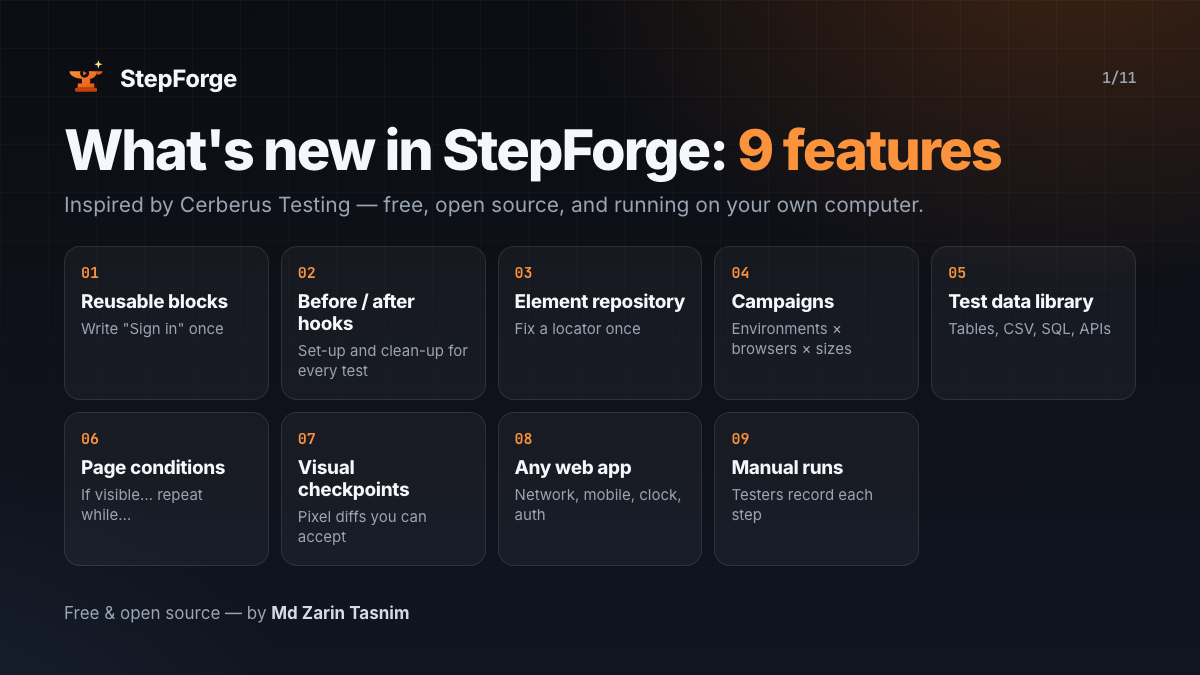
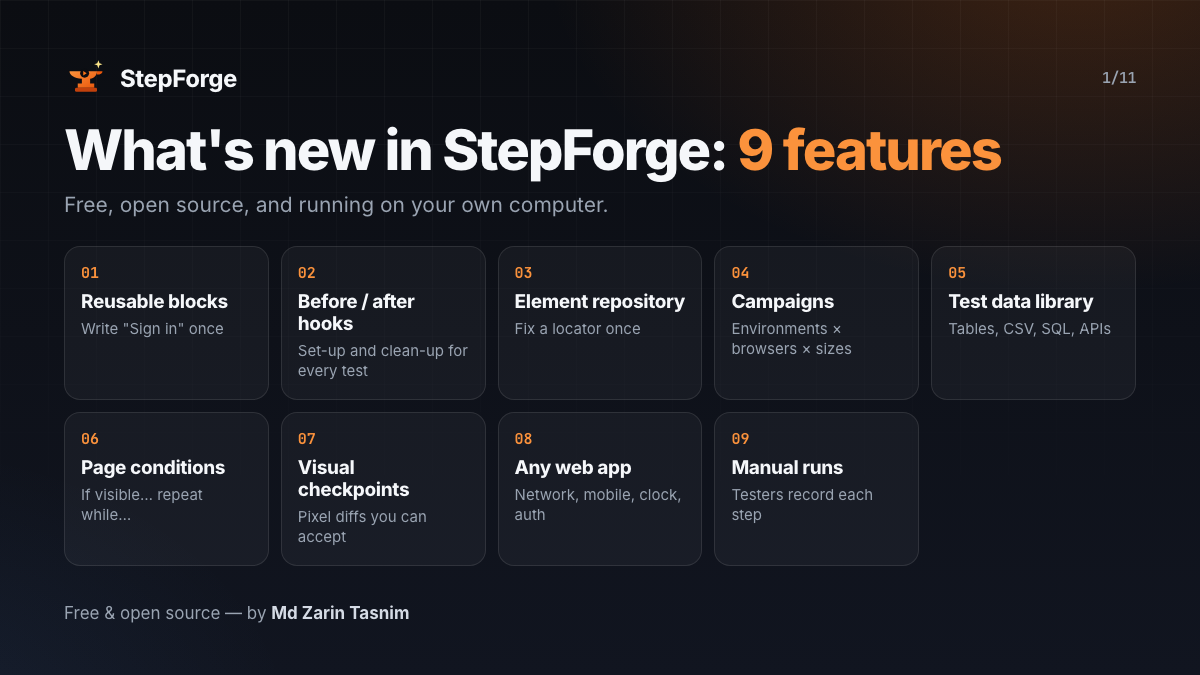
docs: describe features on their own terms (no references to other tools); re-render the post images

Changed region(s): [[0.0617, 0.28, 0.7708, 0.3422]]

diff --git a/docs/case-study/whats-new.html b/docs/case-study/whats-new.html
@@ -67,7 +67,7 @@
   <div class="safe" style="width:1072px">
     <div class="brand"><svg width="44" height="44"><use href="#logo"/></svg>StepForge<span class="step">1/11</span></div>
     <h2 style="font-size:56px;margin-top:20px">What's new in StepForge: <span class="hl">9 features</span></h2>
-    <div style="font-size:21px;color:var(--muted);margin-top:10px;line-height:1.4">Inspired by Cerberus Testing — free, open source, and running on your own computer.</div>
+    <div style="font-size:21px;color:var(--muted);margin-top:10px;line-height:1.4">Free, open source, and running on your own computer.</div>
     <div class="tiles">
       <div class="tile"><div class="n">01</div><div class="t">Reusable blocks</div><div class="d">Write "Sign in" once</div></div>
       <div class="tile"><div class="n">02</div><div class="t">Before / after hooks</div><div class="d">Set-up and clean-up for every test</div></div>

diff --git a/apps/server/src/runner/manual.ts b/apps/server/src/runner/manual.ts
@@ -41,7 +41,7 @@ export const ManualSave = z.object({
 });
 
 /**
- * Manual test runs (like Cerberus Testing's manual executions): nothing is executed; a person follows each test's
+ * Manual test runs: nothing is executed; a person follows each test's
  * steps — written out in plain English, with blocks, hooks and called scenarios expanded and test data filled in —
  * and records passed / failed / blocked / skipped per step, with a note and a screenshot. The results are ordinary
  * run results, so history, analytics, quality gates and reports include them.

diff --git a/e2e/queue.spec.ts b/e2e/queue.spec.ts
@@ -21,9 +21,7 @@ async function sfApi<T>(page: Page, method: string, url: string, body?: unknown)
   ) as Promise<T>;
 }
 
-test('run queue: waiting runs in start order, "Run next" and priorities (Cerberus-style queue priorities)', async ({
-  page,
-}) => {
+test('run queue: waiting runs in start order, "Run next" and priorities', async ({ page }) => {
   test.setTimeout(120_000);
   await page.goto('/');
   const app = await sfApi<{ id: string }>(page, 'POST', '/api/applications', {

diff --git a/packages/db/src/repos/campaigns.ts b/packages/db/src/repos/campaigns.ts
@@ -10,7 +10,7 @@ import { getScenario, getTree } from './scenarios.ts';
 
 /**
  * Campaigns: a saved selection of tests run across environments × browsers × screen sizes in one go (one run per
- * combination), with a combined report and "rerun failed". Like Cerberus Testing's campaigns.
+ * combination), with a combined report and "rerun failed".
  */
 export type Campaign = typeof campaigns.$inferSelect;
 export type CampaignRun = typeof campaignRuns.$inferSelect;

diff --git a/apps/web/src/pages/campaigns.tsx b/apps/web/src/pages/campaigns.tsx
@@ -94,7 +94,7 @@ const TRIGGER_LABEL: Record<string, string> = {
 };
 const plural = (n: number, w: string) => `${n} ${w}${n === 1 ? '' : 's'}`;
 
-/** Saved test sets run across environments × browsers × screen sizes (like Cerberus Testing's campaigns). */
+/** Saved test sets run across environments × browsers × screen sizes. */
 export function CampaignsPage() {
   const { app } = useCurrentApp();
   const qc = useQueryClient();

diff --git a/e2e/data.spec.ts b/e2e/data.spec.ts
@@ -25,7 +25,7 @@ async function sfApi<T>(page: Page, method: string, url: string, body?: unknown)
   ) as Promise<T>;
 }
 
-test('test data: a table from pasted CSV, preview, a useData step in the editor, and a run that reads a row (Cerberus-style data library)', async ({
+test('test data: a table from pasted CSV, preview, a useData step in the editor, and a run that reads a row', async ({
   page,
 }) => {
   test.setTimeout(120_000);

diff --git a/e2e/hooks.spec.ts b/e2e/hooks.spec.ts
@@ -25,7 +25,7 @@ async function sfApi<T>(page: Page, method: string, url: string, body?: unknown)
   ) as Promise<T>;
 }
 
-test('hooks: a module’s before/after-each-test blocks run around its tests, also after a failure (Cerberus-style pre/post testing)', async ({
+test('hooks: a module’s before/after-each-test blocks run around its tests, also after a failure', async ({
   page,
 }) => {
   test.setTimeout(120_000);

diff --git a/e2e/manual.spec.ts b/e2e/manual.spec.ts
@@ -30,7 +30,7 @@ async function sfApi<T>(page: Page, method: string, url: string, body?: unknown)
   ) as Promise<T>;
 }
 
-test('manual run: a tester follows the steps, records passed / failed with a note and a screenshot (Cerberus-style manual execution)', async ({
+test('manual run: a tester follows the steps, records passed / failed with a note and a screenshot', async ({
   page,
 }) => {
   test.setTimeout(120_000);

diff --git a/packages/db/src/repos/datasets.ts b/packages/db/src/repos/datasets.ts
@@ -14,7 +14,7 @@ import {
 import { invalid, notFound, now } from './errors.ts';
 
 /**
- * The test data library (like Cerberus Testing's data library): named data sources that tests read rows from with
+ * The test data library: named data sources that tests read rows from with
  * `util.useData`. Sources are referenced by name, like database connections.
  */
 export type DataSource = typeof datasets.$inferSelect;

diff --git a/e2e/campaigns.spec.ts b/e2e/campaigns.spec.ts
@@ -25,7 +25,7 @@ async function sfApi<T>(page: Page, method: string, url: string, body?: unknown)
   ) as Promise<T>;
 }
 
-test('campaigns: one test set across environments × screen sizes, combined report, rerun failed (Cerberus-style campaigns)', async ({
+test('campaigns: one test set across environments × screen sizes, combined report, rerun failed', async ({
   page,
 }) => {
   test.setTimeout(150_000);

diff --git a/e2e/web-apps.spec.ts b/e2e/web-apps.spec.ts
@@ -25,7 +25,7 @@ async function sfApi<T>(page: Page, method: string, url: string, body?: unknown)
   ) as Promise<T>;
 }
 
-test('page conditions: "if the element is visible" picks a branch from what the page shows (Cerberus-style conditions)', async ({
+test('page conditions: "if the element is visible" picks a branch from what the page shows', async ({
   page,
 }) => {
   test.setTimeout(120_000);

diff --git a/e2e/network.spec.ts b/e2e/network.spec.ts
@@ -25,7 +25,7 @@ async function sfApi<T>(page: Page, method: string, url: string, body?: unknown)
   ) as Promise<T>;
 }
 
-test('network: a breakdown of the page traffic on the run page, and a budget check step (Cerberus-style network traffic)', async ({
+test('network: a breakdown of the page traffic on the run page, and a budget check step', async ({
   page,
 }) => {
   test.setTimeout(120_000);
